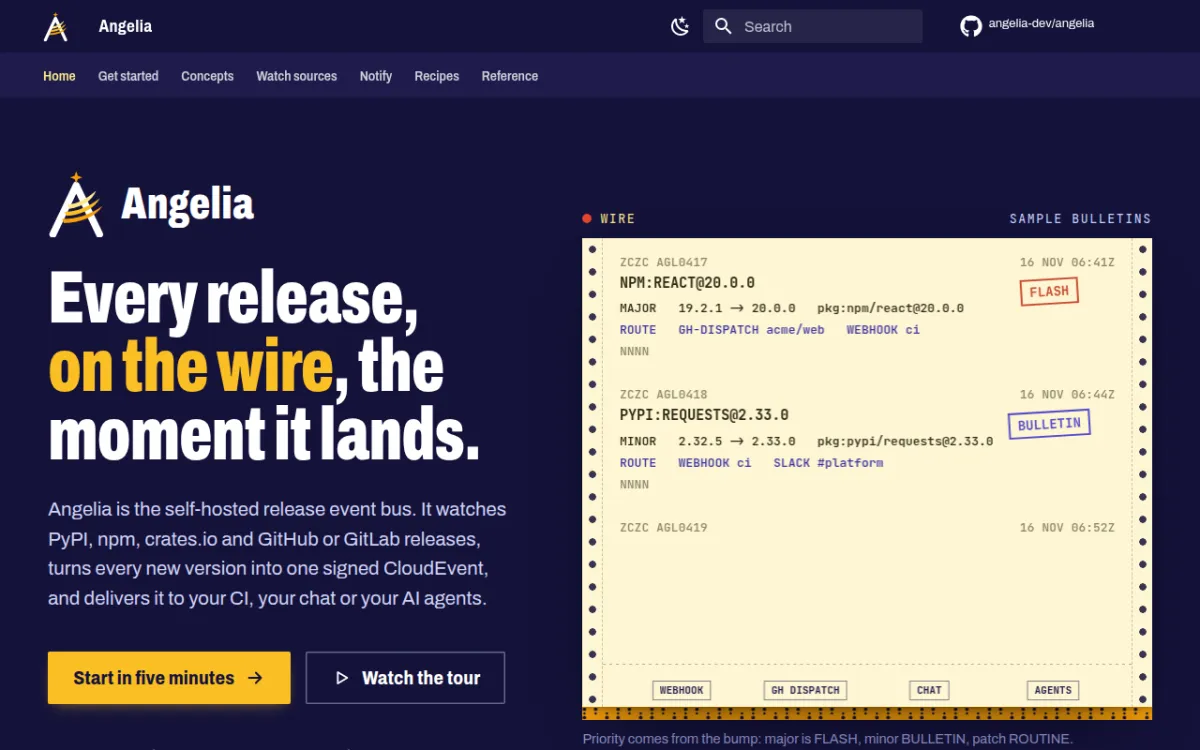
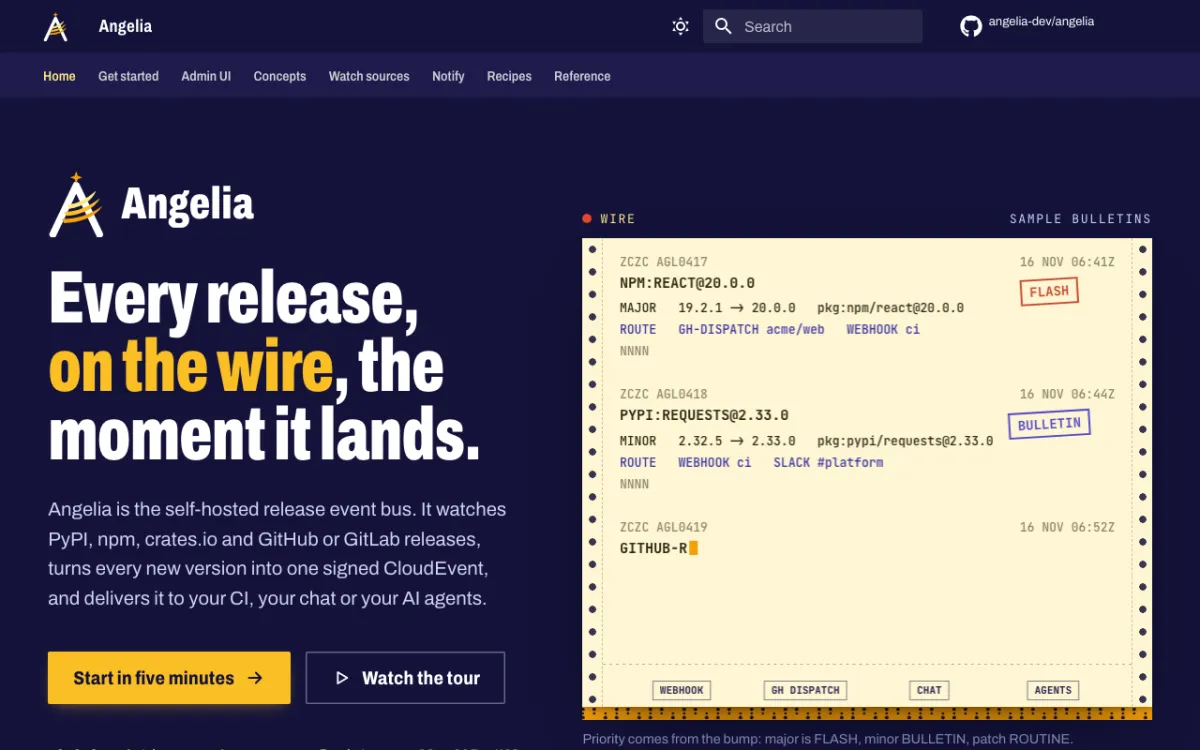
Open source gallery: add Paeon, refresh screenshots in dark mode
Paeon joins the AI family with EN/FR/IT summaries. The sync script now forces
dark mode so a local run renders like the CI runner. Every screenshot was
retaken except proton-faces, whose headless capture comes out blank.

diff --git a/scripts/sync_opensource.py b/scripts/sync_opensource.py
@@ -89,7 +89,8 @@ def find_chrome() -> str | None:
 def screenshot(chrome: str, url: str, out: Path) -> bool:
     with tempfile.TemporaryDirectory() as tmp:
         png = Path(tmp) / "shot.png"
-        cmd = [chrome, "--headless=new", "--disable-gpu", "--hide-scrollbars",
+        # Dark mode on purpose: the same rendering on a Mac, a Linux runner or anything in between.
+        cmd = [chrome, "--headless=new", "--disable-gpu", "--hide-scrollbars", "--force-dark-mode",
                "--window-size=1280,800", "--virtual-time-budget=6000", f"--screenshot={png}", url]
         # Chrome's sandbox stays on. Only for a container that cannot run it: CHROME_NO_SANDBOX=1.
         if os.environ.get("CHROME_NO_SANDBOX") == "1":
